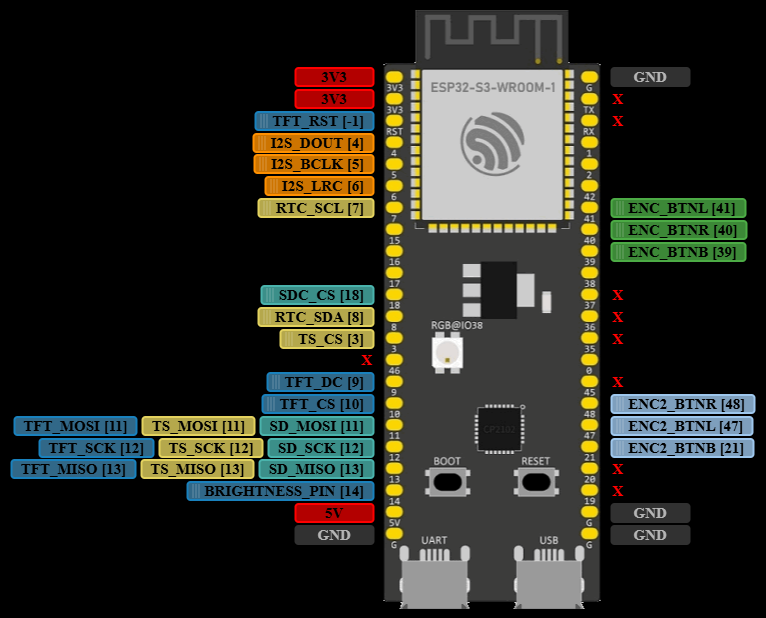
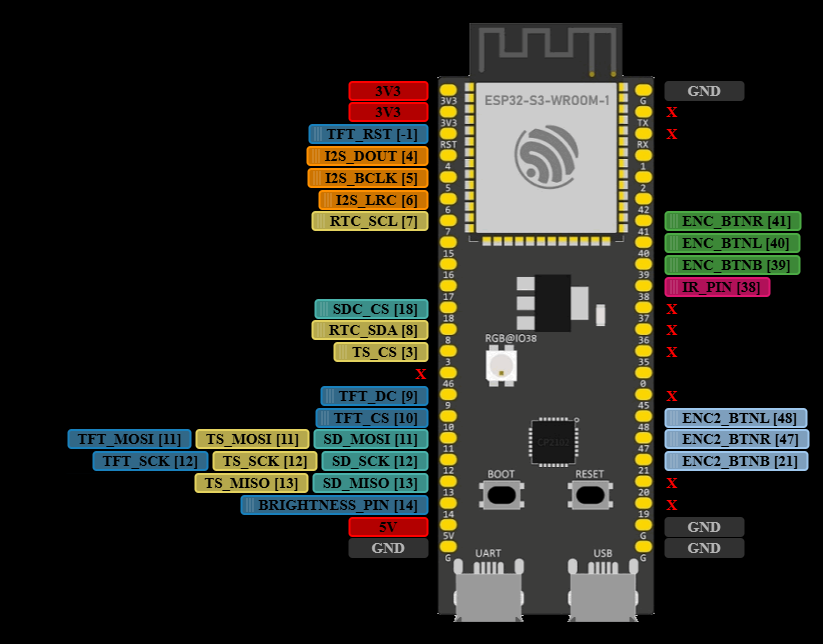
v0.8.4

Changed region(s): [[0.0, 0.0, 0.9909, 0.9838]]

diff --git a/PCB/PCB_2025_12_21/PCB.md b/PCB/PCB_2025_12_21/PCB.md
@@ -3,7 +3,7 @@
 - **PCB mérete:** 98 × 100 mm
 - **SMD alkatrészek mérete:** 1206
 - A `GPIO_1`, `GPIO_2`, `GPIO_42`, `GPIO_17` kivezetések nem használt PIN-ek, kivétel ha capacitive touch -ot használsz.  
-  Ez esetben a `GPIO_17 - INT` és a `GPIO_42 - RST` touch.
+  Ez esetben a `GPIO_17 - INT` és csak GT911 esetén a `GPIO_42 - RST` touch.
 - **R1-R2** az I2C busz SCL és SCA felhúzóellenállásai. 2.2kΩ (Capacitive touch és RTC modul DS3132 használja.)
 - Az **R3–R6** ellenállások a nem használt pinek felhúzóellenállásai. 
   Csak szükség esetén kell beforrasztani őket. 10kΩ
@@ -32,17 +32,23 @@ Az encoderek használata esetén a `myoptions.h` fájlban definiálni kell őket
 // #define ENC2_INTERNALPULLUP true
 ```
 ### Érintő képernyő SPI buszt használó XPT2046 chip esetén (resistive)  
-- A T.CK, T.CS, T-MISO, T.MOSI érintkezők az LCD modulon az érintőképernyő SPI vezetékei. Használat esetén mindegyiket be kell kötni. Amennyiben nem akarsz használni érintő kijelzőt és nem kötöd be ezeket, úgy a myoptions.h fájlban kommenteld ki a sor elejére helyezett // jellel az ide vonatkozó definíciókat. Ellenkező esetben mindig a hangerő képernyő jelenhet meg.
-```
-// #define TS_MODEL TS_MODEL_XPT2046
-// #define TS_CS    3
+- A T.CK, T.CS, T-MISO, T.MOSI érintkezők az LCD modulon az érintőképernyő SPI vezetékei. Használat esetén mindegyiket be kell kötni. Amennyiben nem akarsz használni érintő kijelzőt és nem kötöd be ezeket, úgy a myoptions.h fájlban kommenteld ki a sor elejére helyezett // jellel az ide vonatkozó definíciókat. Ellenkező esetben mindig a hangerő képernyő jelenhet meg.  
+
+```cpp
+/*----- Touch ISP -----*/
+ #define TS_MODEL TS_MODEL_XPT2046
+ #define TS_CS    3
 ```
 
 ### Érintő képernyő I2C buszt használó FT6X36 chip esetén (capacitive) 
-  - A myoptions.h fájlban kell engedélyezni ezt a funkciót. A GPIO 17 az alaplapon nem az I2C csatlakozónál van, ezt külön kell bekötni. Felhúzóellenállás nem szükséges.
-  ```
- #define TS_MODEL TS_MODEL_FT6X36
- #define TS_INT  17 
+  - A myoptions.h fájlban kell engedélyezni ezt a funkciót. A GPIO 17 az alaplapon nem az I2C csatlakozónál van, ezt külön kell bekötni. Felhúzóellenállás nem szükséges. 
+
+  ```cpp
+ /*----- Touch I2C -----*/
+#define TS_MODEL TS_MODEL_FT6X36
+#define TS_SCL      7
+#define TS_SDA      8
+#define TS_INT     17 
 ```
 
 ### SD kártya
@@ -60,12 +66,12 @@ Az encoderek használata esetén a `myoptions.h` fájlban definiálni kell őket
         #define RTC_MODULE DS3231
 ```
 ### Power-select jumperek       
-A PWS_DAC, PWS_LCD, PWS_I2C power select jumperek csak tesztelési céllal kerültek fel. Amennyiben a modul tartalmaz saját 3.3V -os stabilizátor IC -t, úgy lehet választani az 5V -os táplálást.
+A PWS_LCD, PWS_I2C power select jumperek csak tesztelési céllal kerültek fel. Amennyiben a modul tartalmaz saját 3.3V -os stabilizátor IC -t, úgy lehet választani az 5V -os táplálást.
 
 - 5V_ESP32 zárása → az ESP a saját 3.3 V stabilizátorát használja
 
 - 3.3V_ESP32 zárása → az ESP-t az alaplapi stabilizátor táplálja        
-Ajánlás: csak az 5V_ESP32 ágat zárd
+Ajánlás: csak az 5V_ESP32 ágat zárd!
 
 ### Erősítő ki -be kapcsolása a képernyővédő és hangerő függvényében [olvasd el ezt!](../../docs/pwr_amp.md)
 
@@ -105,7 +111,7 @@ Ajánlás: csak az 5V_ESP32 ágat zárd
   https://github.com/e2002/yoradio/wiki/How-to-flash
 
 
-### Ez a PCB verzió legyártható a [jlcpcb.com](https://jlcpcb.com/) oldalon a [yoradio_gerber.zip](../../PCB/BCP_2025_12_21/yoradio_gerber_2025_dec_21.zip)   fájl feltöltésével.     
+### Ez a PCB verzió legyártható a [jlcpcb.com](https://jlcpcb.com/) oldalon a [yoradio_gerber.zip](../../PCB/PCB_2025_12_21/yoradio_gerber.zip)   fájl feltöltésével.     
 
 ![PCB front](2D_top_98x100mm.jpg)<br><br>
 ![PCB back](2D_bottom_98x100mm.jpg)<br><br>

diff --git a/Aliexpress/Aliexpress_links.md b/Aliexpress/Aliexpress_links.md
@@ -8,8 +8,14 @@ https://www.aliexpress.com/item/1005009170360406.html
 https://www.aliexpress.com/item/1005006781542881.html
 
 ## Kijelzők / Displays
-- IPS 4.0 Inch Red Module ILI9488 Factory TFT LCD 480*320 DIY Display 14 Pin Electronic Board
+- IPS 4.0 Inch Red Module ILI9488 Factory TFT LCD 480*320 DIY Display 14 Pin Electronic Board   
+(SPI resistive touch XPT2046)   
 https://www.aliexpress.com/item/1005006287831546.html
+
+- IPS CTP 3.5 Inch SPI Red ILI9488 14 pin Full View Angle 480*320   
+(I2C capacitive touch FT6236)   
+https://www.aliexpress.com/item/1005007789737257.html   
+
 ## Digital/Analog Converter (DAC)
 
 - Interface I2S PCM5102A DAC Decoder GY-PCM5102 I2S Player Module For Raspberry Pi pHAT Format Board Digital PCM5102 Audio Board
@@ -46,9 +52,6 @@ https://www.aliexpress.com/item/1005003621329893.html
 - Universal Remote Control Replacement For Original Tanix W2 TX3 TX5 TX6 TX6S TX9 TX68 TV BOX Controller Accessories    
 https://www.aliexpress.com/item/1005010439257796.html   
 
-- Universal Learn Remote Control Work for 2 devices Copy IR Code for TV VCR STB DVD DVB BOX 2 in 1 Controller Easy for Old People.
-https://www.aliexpress.com/item/32960027990.html
-
 ## Tápegységek / Power supplies
 - 5 Volt 1-10Pcs AC-DC 3.3V/5V/12V Precision Buck Converter AC220v toDC 3.3V/5V/12V DC step down Transformer power supply module 1A 12W
 https://www.aliexpress.com/item/10000159007917.html
@@ -70,8 +73,8 @@ https://www.aliexpress.com/item/1005006345065523.html
 https://www.aliexpress.com/item/1005009195056493.html
 
 ## USB Bluetooth Transmiter
-- Grwibeou 2 IN 1 USB Bluetooth 5.0 Adapter Transmiter 3.5mm AUX Jack   
-https://www.aliexpress.com/item/1005006421639768.html
+- KN330 3 in 1 Bluetooth 5.0 Transmitter Receiver USB EDR Adapter Dongle 3.5mm AUX RCA for TV PC Headphones Home Stereo Car HIFI  
+https://www.aliexpress.com/item/1005009252961710.html
 
 ## Optocoupler Isolation Relay Module Board
 - 3.3V 1 Channel Relay Module High And Low Level Trigger Dual Optocoupler Isolation Relay Module Board
@@ -80,3 +83,7 @@ https://www.aliexpress.com/item/1005005514531757.html
 ## Vezetékek / Wires    
 - UL1007 Wire PVC Insulation Tinned Copper Cable Stranded Electrical Line 22 AWG PVC Wire（5 Colors Mix Kit）
 https://www.aliexpress.com/item/1005007813766293.html
+
+## Szerszám / Tool
+- SN-68B Crimps Plug JST ,TE,XH,SM,VH,PH,Molex Terminals Ratchet Crimper Pliers For 0.08-1.5mm²(28-16 AWG) Wires Tool
+https://www.aliexpress.com/item/1005008523636465.html?spm=a2g0o.order_list.order_list_main.66.514b1802aakfO9
